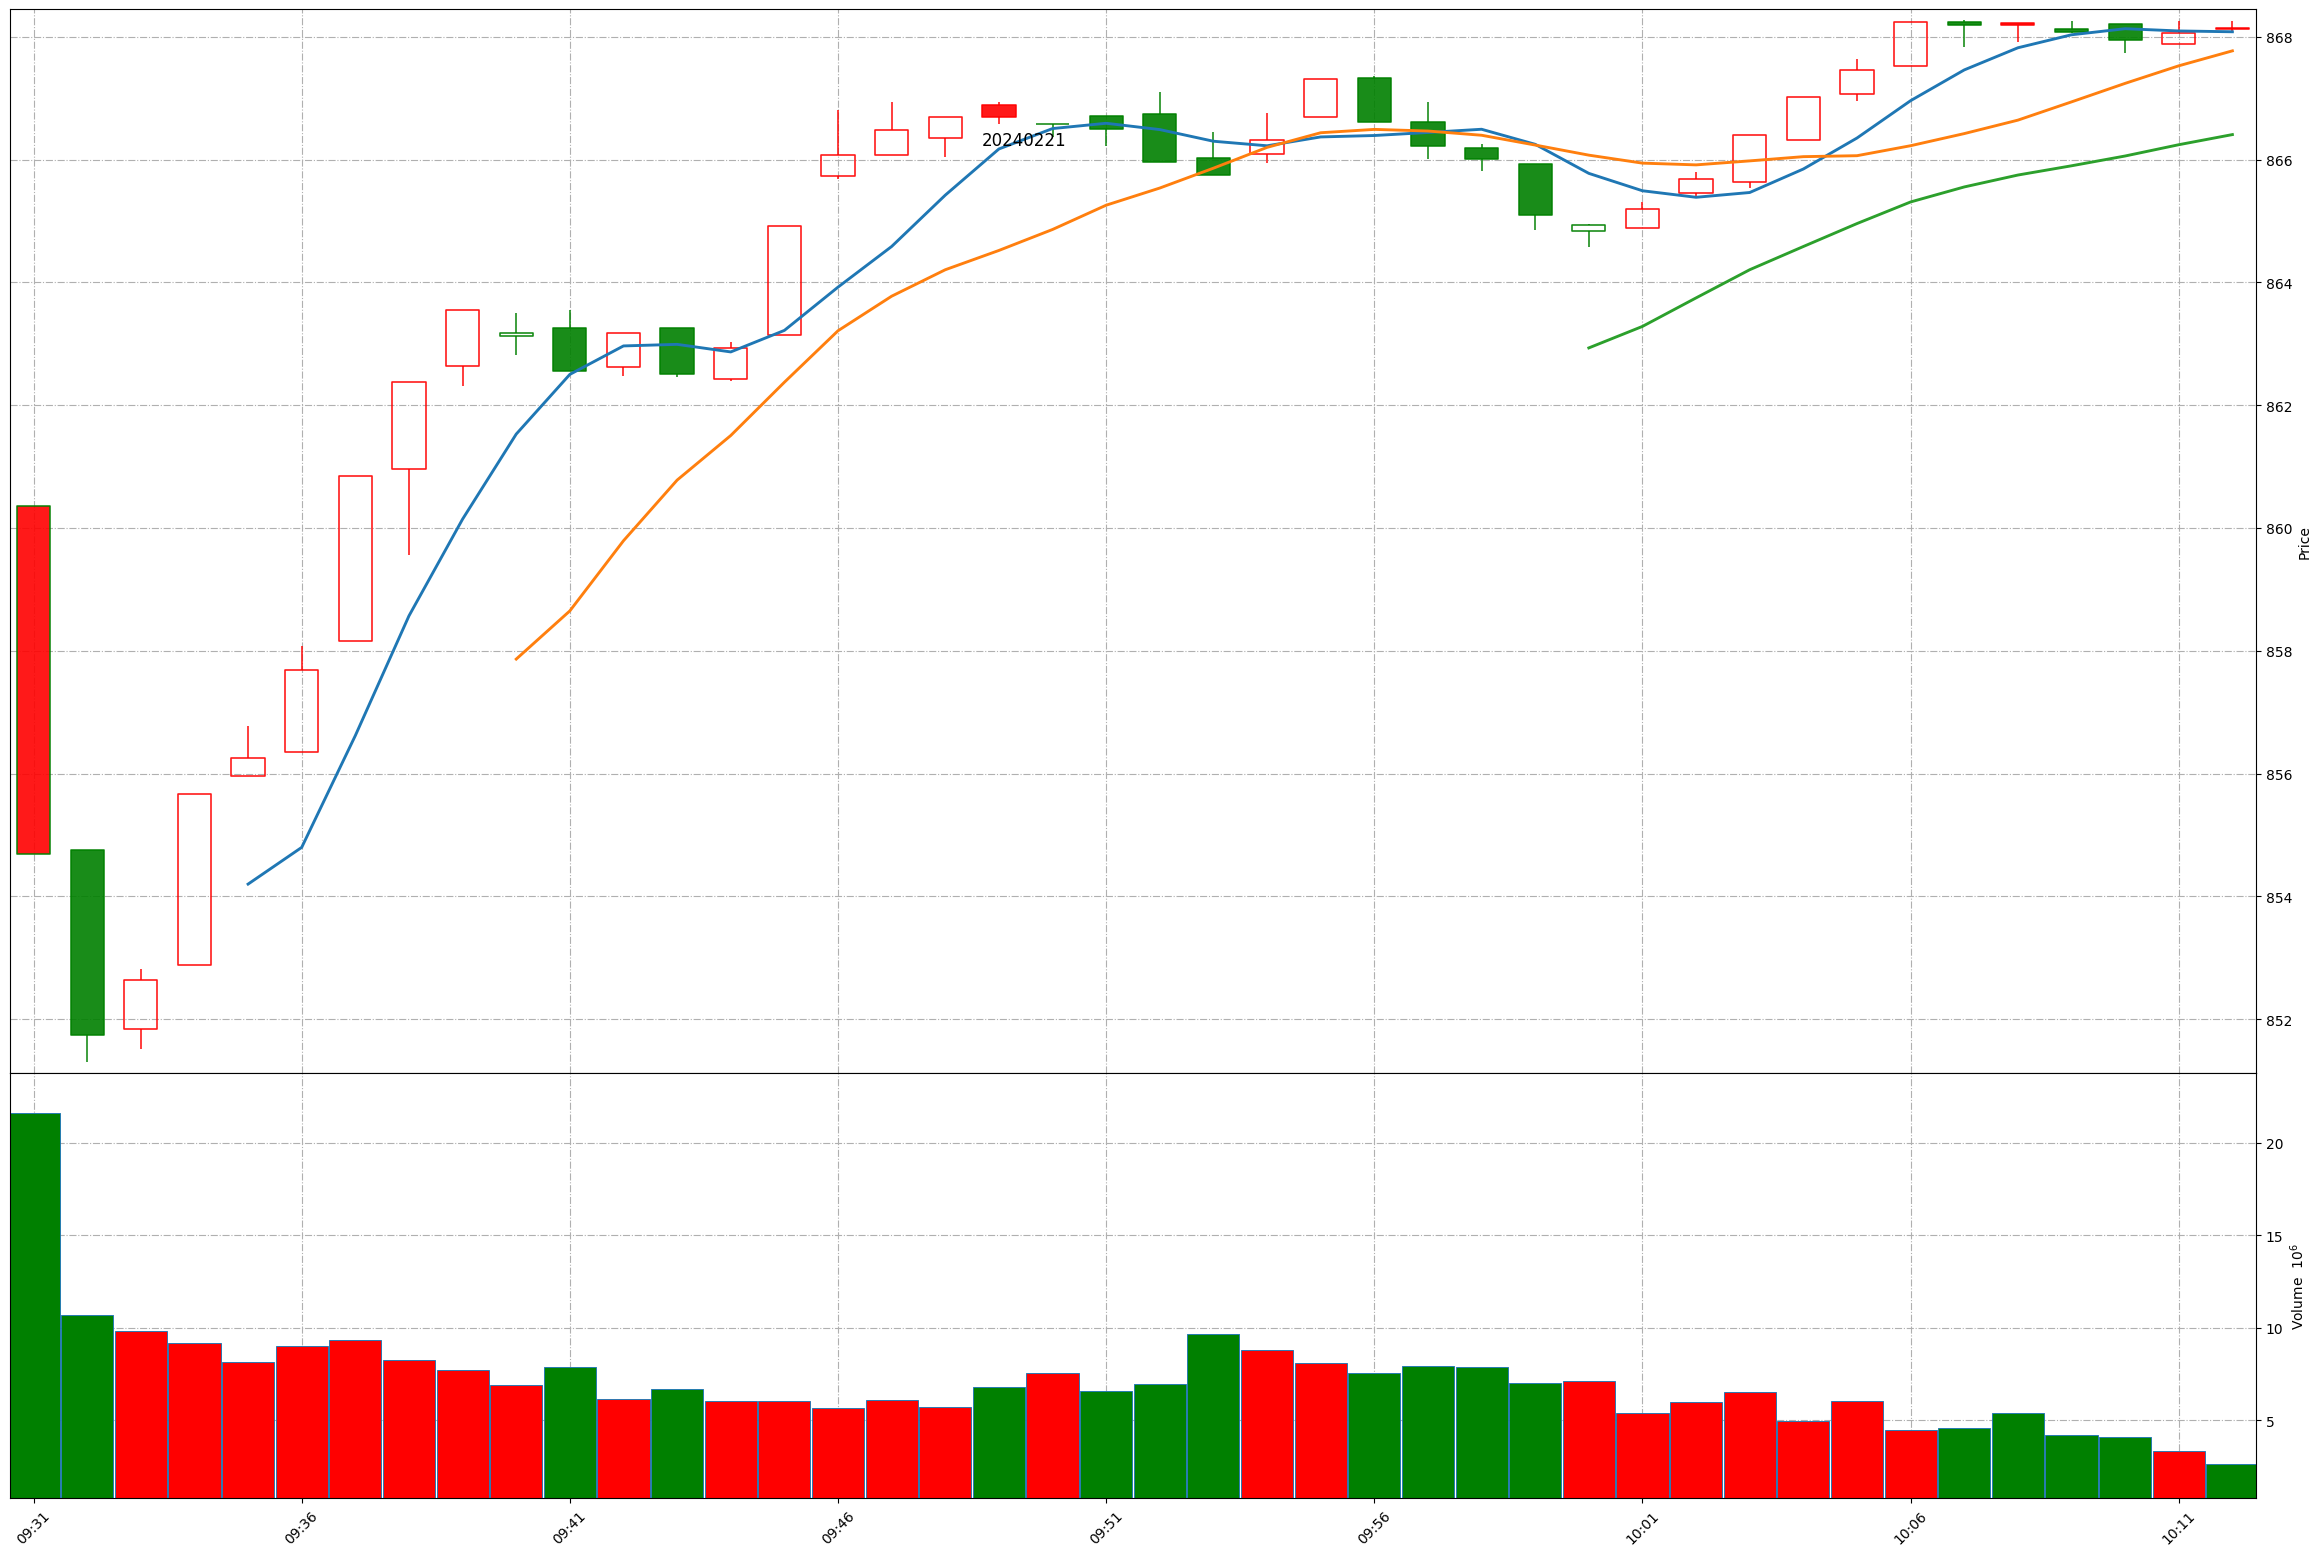
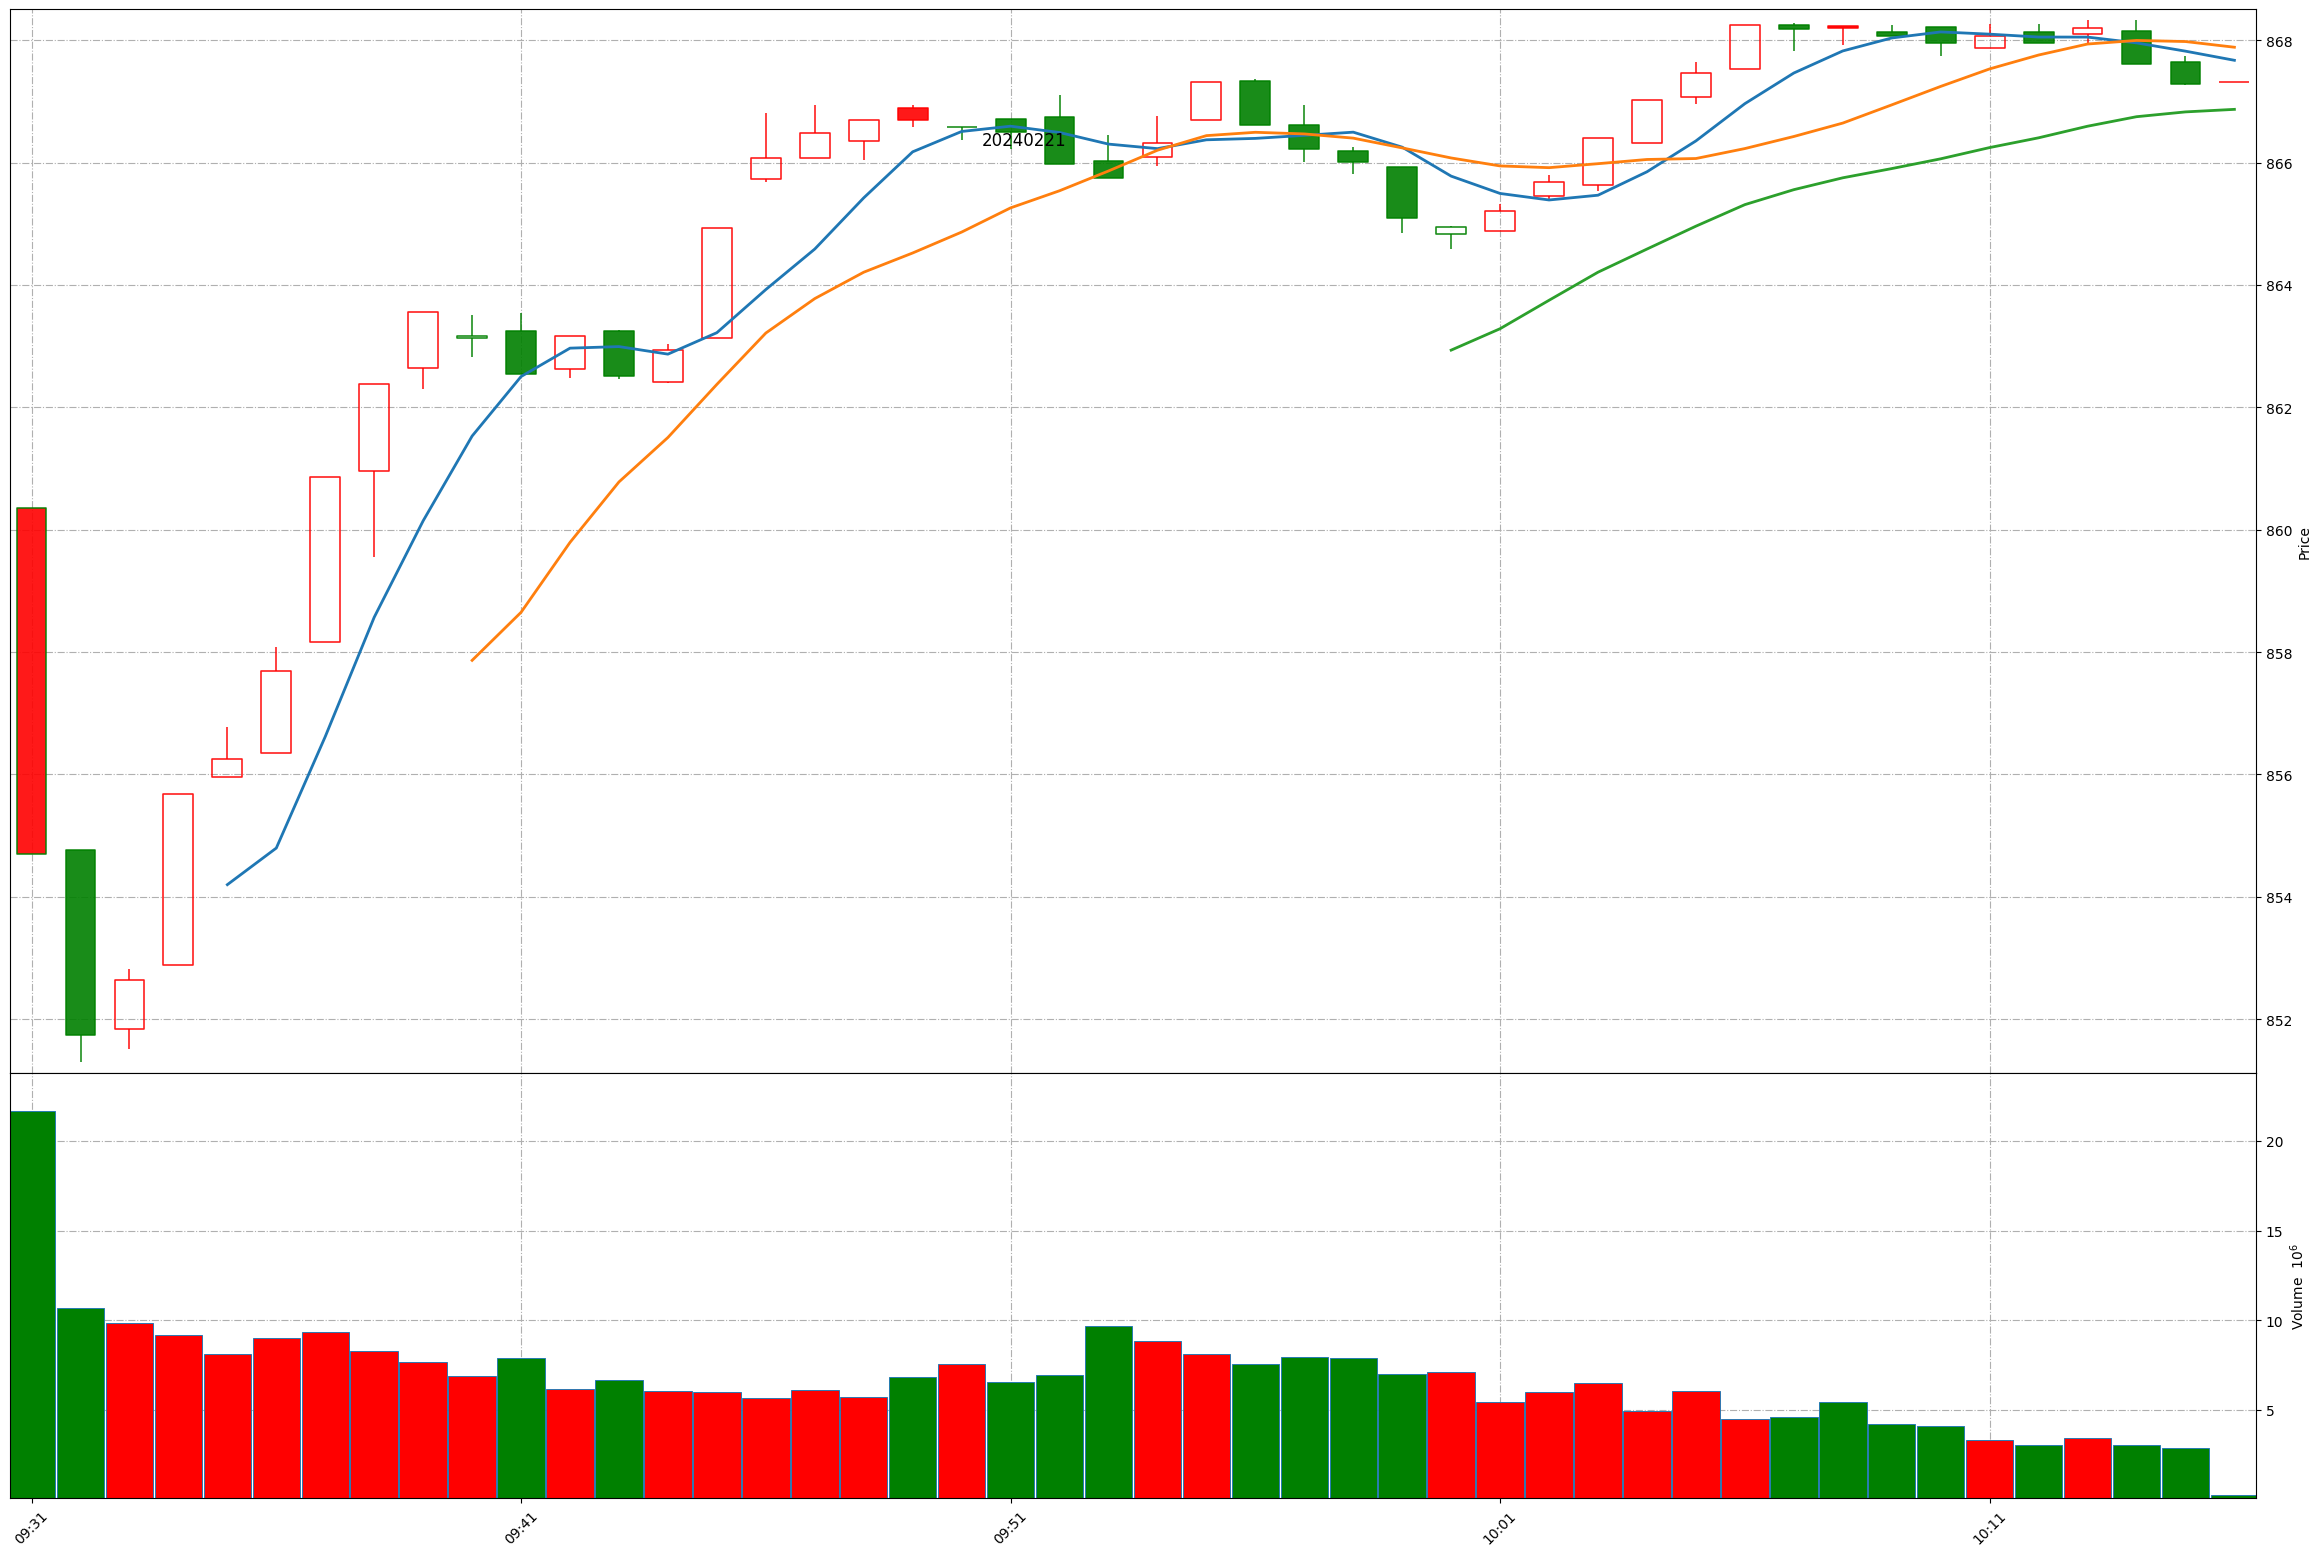
Github action update at 2024-02-21 10:15:20.

diff --git a/README.md b/README.md
@@ -1,11 +1,11 @@
 
 # Daily-A-share-market-quotes 每日 A 股指数（5min 更新）- 20240221
 
-### 上证指数 20240221 10:11
+### 上证指数 20240221 10:15
 ![](./fig/2024/2/20240221-sh000001.png)
 
-### 深证成指 20240221 10:11
+### 深证成指 20240221 10:15
 ![](./fig/2024/2/20240221-sz399001.png)
 
-### 北证50 20240221 10:11
+### 北证50 20240221 10:15
 ![](./fig/2024/2/20240221-bj899050.png)
